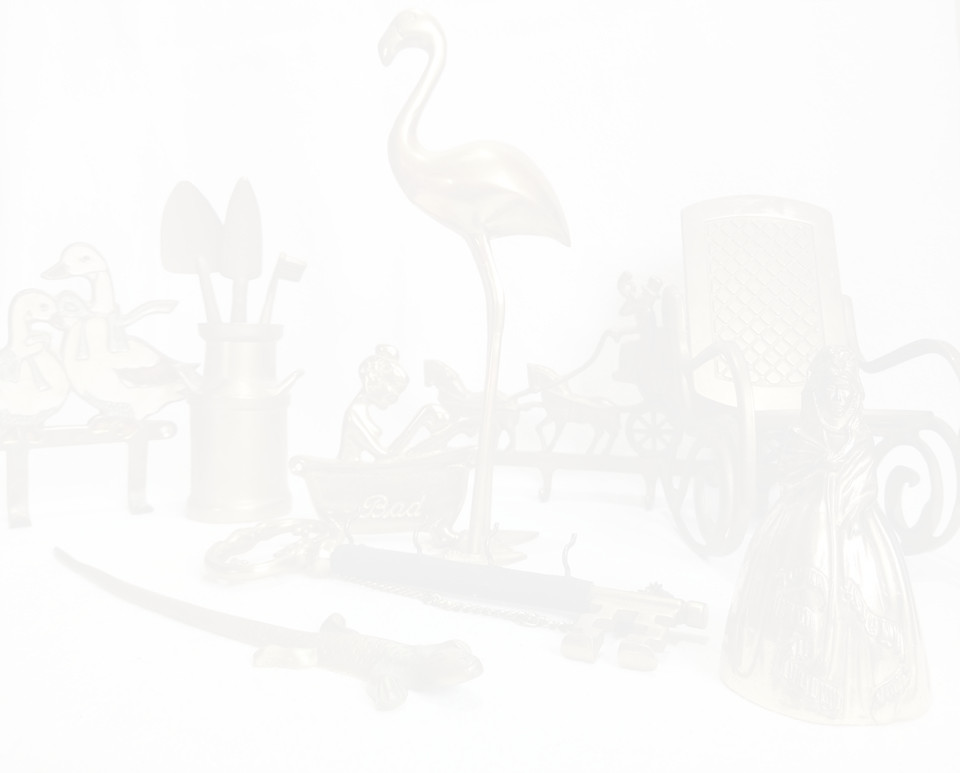
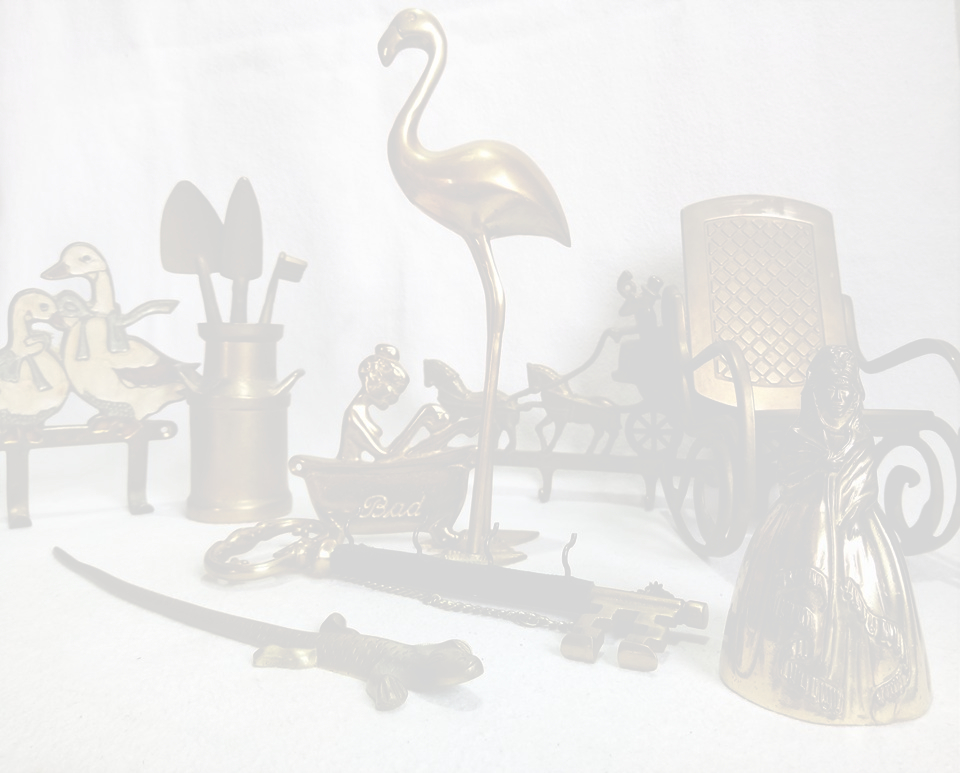
v 1.0

diff --git a/src/app/app.component.html b/src/app/app.component.html
@@ -3,15 +3,27 @@
       <img class="szpargaly-logo.jpg" src="assets/szpargaly-logo.jpg">
   </header>
   <nav *ngIf="desktop">
-      <li><button (click)="contact.scrollIntoView({ behavior: 'smooth', block: 'start' })">Kontakt</button></li>
-      <li><button (click)="maps.scrollIntoView({ behavior: 'smooth', block: 'start' })">Dojazda</button></li>
-      <li><button (click)="aboutus.scrollIntoView({ behavior: 'smooth', block: 'start' })">O nas</button></li>
+      <li><button (click)="contact.scrollIntoView({ behavior: 'smooth', block: 'center' })">Kontakt</button></li>
+      <li><button (click)="maps.scrollIntoView({ behavior: 'smooth', block: 'center' })">Dojazd</button></li>
+      <li><button (click)="aboutus.scrollIntoView({ behavior: 'smooth', block: 'center' })">O nas</button></li>
       
   </nav>
   <main>
-      <p>Witaj na stronie <font style="color:var(--head-color)">S</font>zpargały.pl<font style="color:var(--head-color)">!</font></p>
-      <button >Zobacz nasze produkty</button>
+      <p>&nbsp;Witaj na stronie <font style="color:var(--head-color)">S</font>zpargały.pl<font style="color:var(--head-color)">!</font></p>
+      <button><a href="https://allegro.pl/uzytkownik/Speeedcuber?fbclid=IwAR04ktYq1QMd844_PWt9lCvLNxn7m-xZ0UOfsUTohdSHs5p21E0JBzqkUZw&bmatch=baseline-product-cl-eyesa2-engag-dict43-uni-1-1-0318">Zobacz nasze produkty</a></button>
   </main>
+  <div *ngIf="desktop" class="allegro">
+    <div class="blockAllegro">
+        <div class="blockAllegroSmall"><img class="allegroImgSmart" src="assets/allegro-smart.png"></div>
+        <div class="blockAllegroSmall"><img class="allegroImgSuperSprzedawca" src="assets/super-sprzedawca.png"></div>
+        <div class="blockAllegroSmall"><img class="allegroImgCash" src="assets/cash.png"></div>
+    </div>
+    <div class="blockAllegro">
+        <div class="blockAllegroSmall"><p>Allego Smart, dostępny w naszych ofertach, przy zakupach za co najmniej 40 zł gwarantuje darmową wysyłkę do Paczkomatów i punktów Żabka, Orlen i Poczta Polska. Wysyłka kurierska z pakietem Smart  jest darmowa przy zamówieniach powyżej 100 zł.</p></div>
+        <div class="blockAllegroSmall"><p>Nasz sklep na Allegro posiada odznaczenie Super Sprzedawcy - wyróżnia nas 100% pozytywnych ocec i komentarzy, najwyższy poziom obsługi klienta oraz szybka i terminowa wysyłka (zdarza się, że paczka jest u Kupującego już następnego dnia!). </p></div>
+        <div class="blockAllegroSmall"><p>Duża część naszych produktów dodatkowo posiada Monety, które można wymieniać na kupony i płacić nimi podczas kolejnych zakupów.</p></div>
+    </div>
+  </div>
   <nav *ngIf="mobile || tablet">
     <li><button (click)="contact.scrollIntoView({ behavior: 'smooth', block: 'start' })">Kontakt</button></li>
     <li><button (click)="maps.scrollIntoView({ behavior: 'smooth', block: 'start' })">Dojazd</button></li>
@@ -19,7 +31,7 @@
   </nav>
 </div>
 
-<div #contact>
+<div class="contact" #contact>
   <section class="contact" *ngIf="mobile || tablet">
       <article>
           <div class="block">
@@ -64,7 +76,7 @@
               </p> 
                <h3>Godziny otwarcia</h3>
               <table>
-                  <tr><td>Dni powszechne:</td>&nbsp;<td>9:00-17:00</td></tr>
+                  <tr><td>Pon - Pt:</td>&nbsp;<td>9:00-17:00</td></tr>
                   <tr><td>Sobota:</td>&nbsp;<td>9:00-14:00</td></tr>
                   <tr><td>Niedziela:</td>&nbsp;<td>Nieczynne</td></tr>
               </table>
@@ -80,9 +92,6 @@
   </section>
 </div>
 
-<div #maps class="maps">
-    <iframe src="https://www.google.com/maps/embed?pb=!1m18!1m12!1m3!1d2440.581933447756!2d17.575739915946752!3d52.28729146120108!2m3!1f0!2f0!3f0!3m2!1i1024!2i768!4f13.1!3m3!1m2!1s0x4704e84c8e5e9383%3A0xc87fa98e801a73a4!2sKaliska%2067%2C%2062-303%20Kaczanowo!5e0!3m2!1spl!2spl!4v1587551152958!5m2!1spl!2spl" width="100%" height="600" frameborder="0" style="border:0;" allowfullscreen="" aria-hidden="false" tabindex="0"></iframe>
-</div>
 
 <div class="aboutus" #aboutus>
     <section class="aboutus" *ngIf="mobile || tablet">
@@ -124,3 +133,7 @@
             </article>
     </section>
   </div>
+
+  <div #maps class="maps">
+    <iframe src="https://www.google.com/maps/embed?pb=!1m18!1m12!1m3!1d2440.581933447756!2d17.575739915946752!3d52.28729146120108!2m3!1f0!2f0!3f0!3m2!1i1024!2i768!4f13.1!3m3!1m2!1s0x4704e84c8e5e9383%3A0xc87fa98e801a73a4!2sKaliska%2067%2C%2062-303%20Kaczanowo!5e0!3m2!1spl!2spl!4v1587551152958!5m2!1spl!2spl" width="100%" height="600" frameborder="0" style="border:0;" allowfullscreen="" aria-hidden="false" tabindex="0"></iframe>
+</div>

diff --git a/src/app/app.component.css b/src/app/app.component.css
@@ -1,6 +1,6 @@
 @media(min-width: 0px){
     .hero-image{
-        background-image: linear-gradient(to bottom, rgba(255,255,255, 0.5) 70%, rgba(255,255,255, 100)), url(../assets/tlo.jpg);
+        background-image: linear-gradient(to bottom, rgba(255,255,255, 0.5) 70%, rgba(255,255,255, 100)), url(../assets/main-background-mobile.jpg);
         width: 100%;
         height: 812px;
     }
@@ -32,7 +32,7 @@
         color:black;
         background-color: white;
         font-size: 1em;
-        height: 70%;
+        height: 60%;
         width: 70%;
         margin: 5% 15%;
     }
@@ -46,12 +46,26 @@
         color:grey;
     }
     main button{
-        margin: 5% 10%;
+        margin: 5% 0;
         background-color: white;
         color:black;
-        font-size: 1em;
-        width: 65%;
-        height: 15%;
+        font-size: 1.5em;
+        width: 95%;
+        height: 20%;
+    }
+
+    /* allegro logo */
+    .allegro{
+        width: 80%;
+        float: left;
+        margin: 0 10%;
+
+    }
+    .allegroSmartSuper{
+        width: 80%;
+        margin: 0 10%;
+        opacity: 0.5;
+        border: 2px inset var(--head-color);
     }
     
     
@@ -133,10 +147,10 @@
 }
 @media(min-width: 500px){
     .hero-image{
-        background-image: linear-gradient(to bottom, rgba(255,255,255, 0.1) 70%, rgba(255,255,255, 100)), url(../assets/main-background-mobile.jpg);
+        background-image: linear-gradient(to bottom, rgba(255,255,255, 0.1) 70%, rgba(255,255,255, 100)), url(../assets/main-background-tablet.jpg);
         background-repeat: no-repeat;
         background-size: 100%;
-        height: 1024px;
+        height: 1000px;
     }
     header{
         padding: 5% 10%;
@@ -184,7 +198,7 @@
 
     }
 }
-@media(min-width:780px){
+@media(min-width:1025px){
     .hero-image{
         background-image: linear-gradient(to bottom, rgba(255,255,255, 0) 70%, rgba(255,255,255, 10)), url(../assets/main-background.jpg);
         background-repeat: no-repeat;
@@ -209,6 +223,7 @@
         margin:5% 0 0 10%;
         padding: 0;
         float: left;
+        height: 300px;
     }
     main p{
         border-left: 2px solid var(--head-color);
@@ -221,7 +236,7 @@
         box-shadow: 2px 2px 30px;
         opacity: 60%;
         font-size: 2em;
-        width: 60%;
+        width: 70%;
         height: 18%;
     }
     nav{
@@ -254,6 +269,52 @@
         color:black;
     }
     
+    /* allegro logo */
+    .allegro{
+        width: 90%;
+        height: 430px;
+        float: left;
+        margin: 0 5%;
+
+    }
+    .blockAllegro{
+        width: 49%;
+        height: 100%;
+        float: left;
+    }
+    .blockAllegro:first-child{
+        width: 39%;
+        margin: 0 5%;
+        border-right: 2px solid var(--head-color);
+    }
+    .blockAllegroSmall{
+        height: 32%;
+        width: 90%;
+        float: left;
+        margin: 0 0%;
+        opacity: 0.7;
+    }
+    .allegroImgSmart{
+        width: 70%;
+        margin: 10% 15% 0 15%;
+        opacity: 0.7;
+    }
+    .allegroImgSuperSprzedawca{
+        width: 25%;
+        margin:0 40%;
+        opacity: 0.7;
+    }
+    .allegroImgCash{
+        width: 25%;
+        margin:0 40%;
+
+    }
+    .allegro p{
+        color:grey;
+        font-weight: bold;
+        opacity: 0.8;
+        margin: 2% 0
+    }
 
     /* contact site */
     .contactDesktop{

diff --git a/src/styles.css b/src/styles.css
@@ -17,7 +17,7 @@ button{
     box-shadow: 2px 2px 10px;
     font-style: normal;
     cursor: pointer;
-    border: 1px solid;
+    border: 1px inset;
 }
 button::first-letter{
     color:var(--head-color);
@@ -30,4 +30,8 @@ main button:hover, nav button:hover{
 main button:hover::first-letter, 
 nav button:hover::first-letter{
     color:black;
+}
+a{
+    text-decoration: none;
+    color:inherit;
 }
